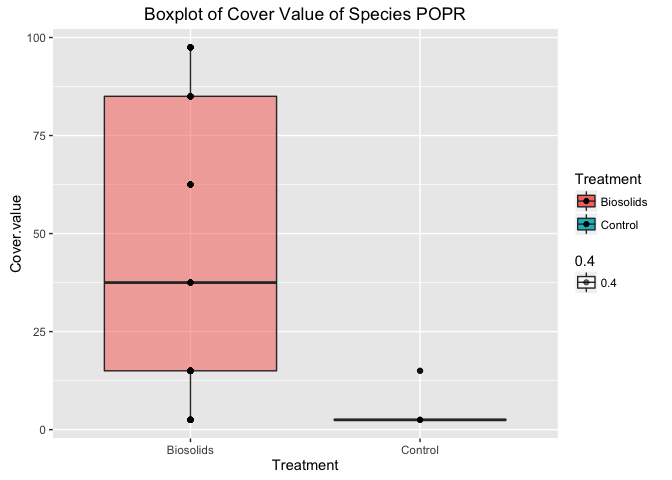
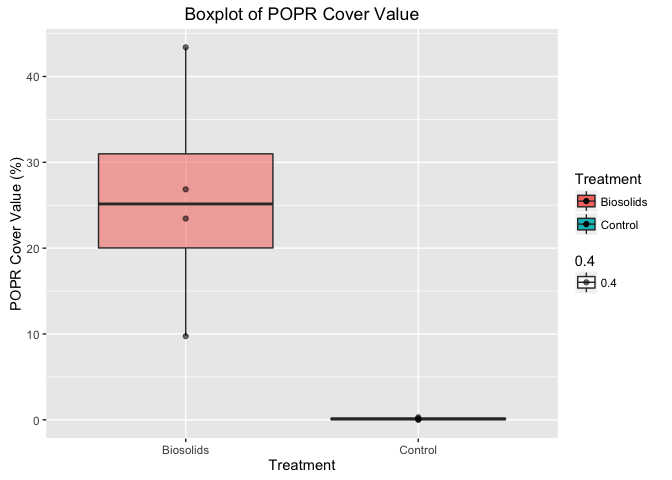
update labels of graphs

diff --git a/Report/SecondDraft/SecondDraft.md b/Report/SecondDraft/SecondDraft.md
@@ -167,14 +167,13 @@ presented by treatment groups for species POPR. The cover values are
 count in that group.
 
 Figure 2.3 and 2.4 provide visualizations of change and variation in
-cover values over different blocks under both biosolids and control for
-POPR. Each point represents the mean cover value under a specific
-treatment-block combination. The observed cover value under control
-group are close to 0 in all four blocks while the cover values under
-biosolids are quite high. We also observe that the change in cover value
-for biosolids group is different in four blocks. But we do not consider
-any interaction effects involving block, because they are not of
-interest.
+cover values under both biosolids and control for POPR. Each point
+represents the mean cover value under a specific treatment-block
+combination. The observed cover value under control group are close to 0
+in all four blocks while the cover values under biosolids are quite
+high. We also observe that the change in cover value for biosolids group
+is different in four blocks. But we do not consider any interaction
+effects involving block, because they are not of interest.
 
 ![](SecondDraft_files/figure-markdown_strict/unnamed-chunk-8-1.png)
 
@@ -185,7 +184,7 @@ those in control group for all the blocks.
 ![](SecondDraft_files/figure-markdown_strict/unnamed-chunk-9-1.png)
 
 Figure 2.4 Boxplots of cover value of species POPR in biosolids and
-control group plotted by the four blocks.
+control group.
 
 #### 3. Methods
 
